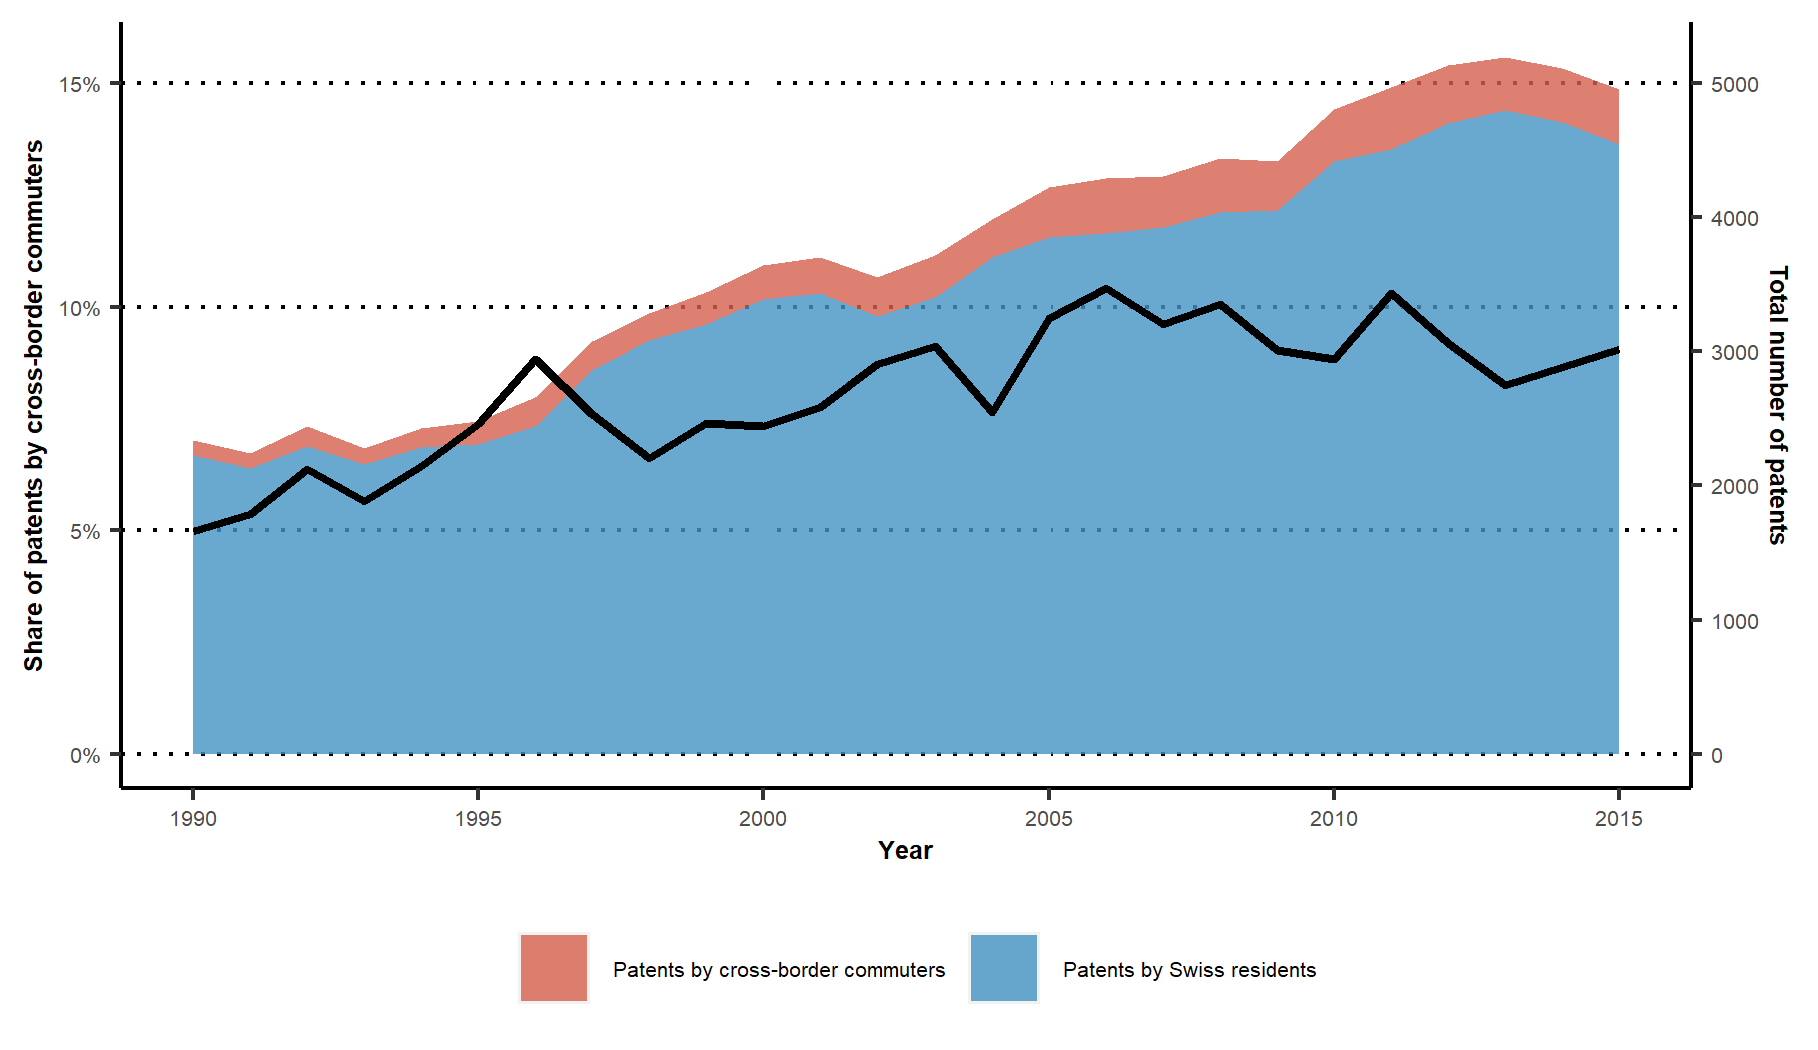
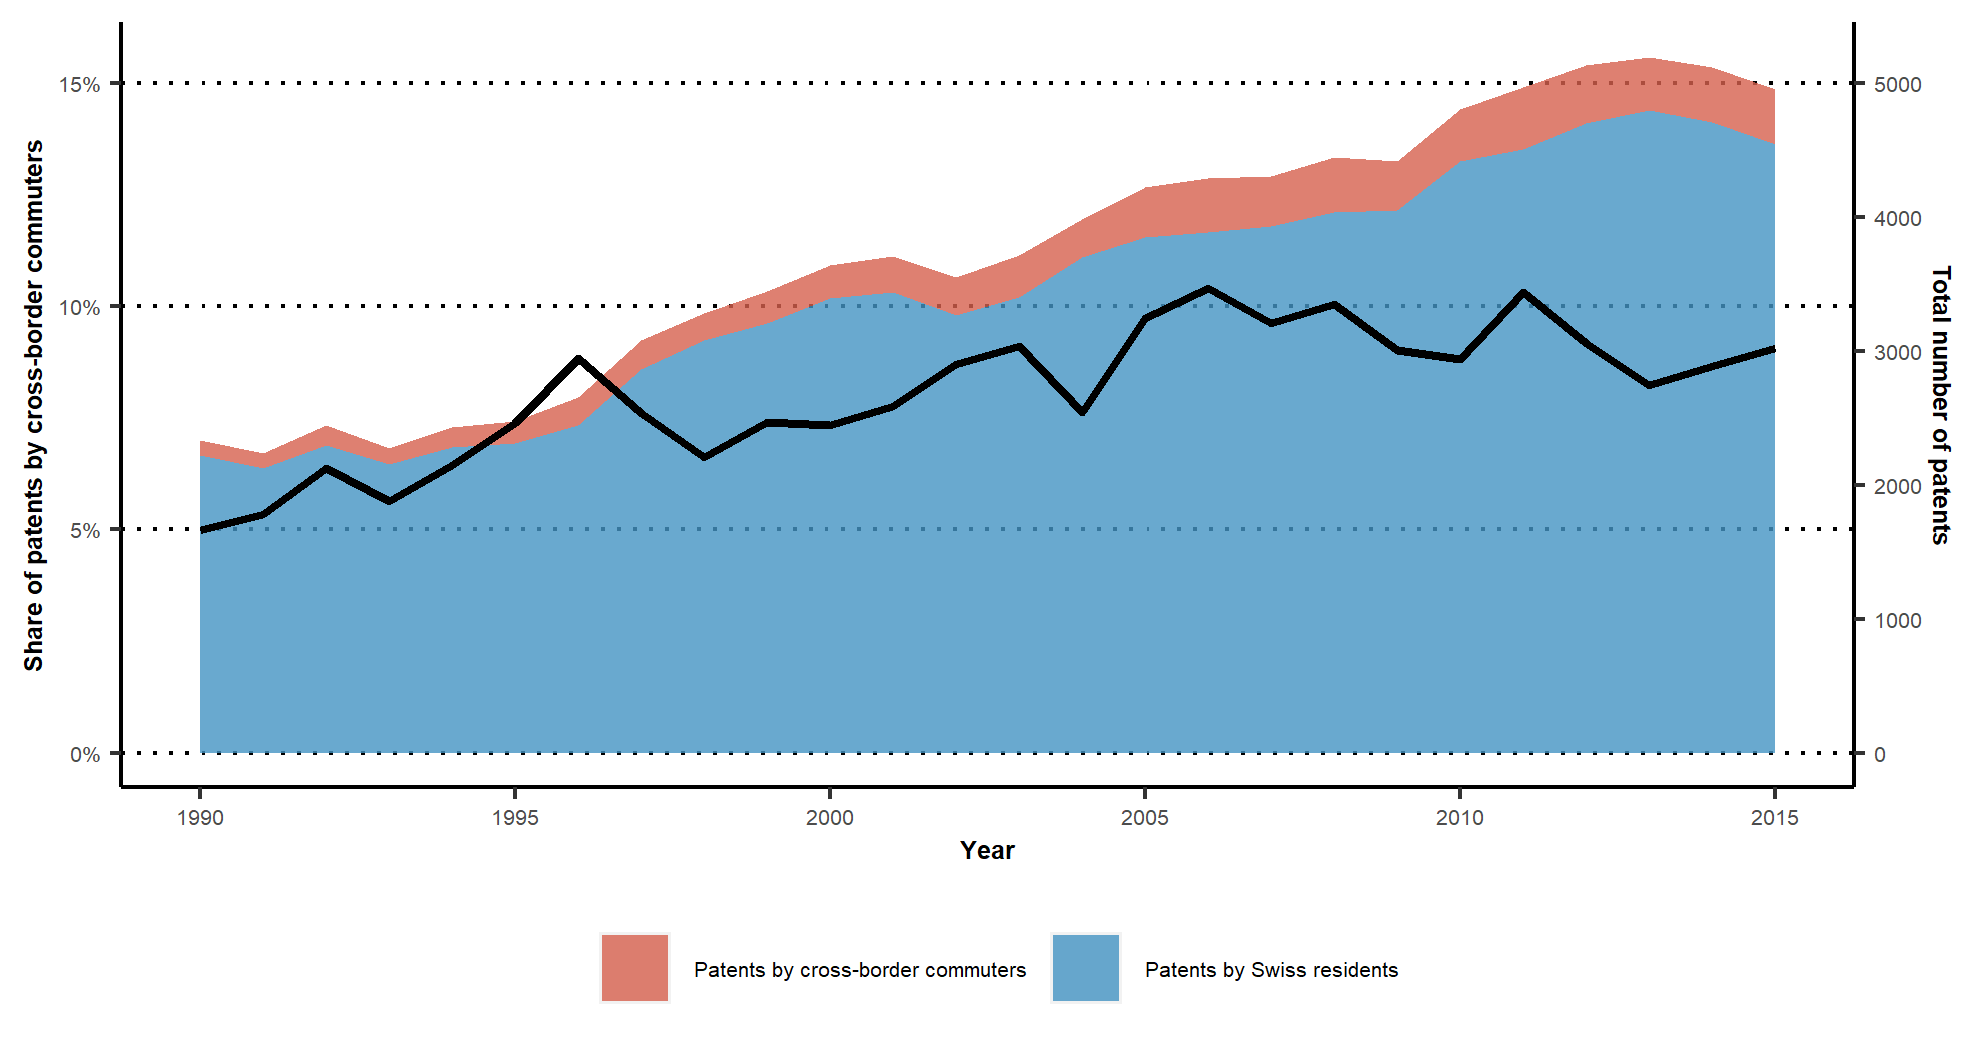
update

diff --git a/Report_de/crossborder_commuters_de.html b/Report_de/crossborder_commuters_de.html
@@ -43,15 +43,11 @@
 
 
 
-<!-- ```{r setup, include=FALSE} -->
-<!-- knitr::opts_chunk$set(echo = TRUE) -->
-<!-- ``` -->
 <p><link href="https://stackpath.bootstrapcdn.com/bootstrap/3.3.5/css/bootstrap.min.css" type="text/css" rel="stylesheet"> <link rel="stylesheet" href="style.css" type="text/css" /></p>
 <div class="container-fluid main-container">
 
-<!-- <a href="http://cieb.unibas.ch/" target = "_blank">![Foo](cieb.png){ width=30% }</a> -->
-<div id="bedeutung-von-grenzgängern-für-innovationen-made-in-switzerland" class="section level2">
-<h2><strong>Bedeutung von Grenzgängern für Innovationen “Made in Switzerland”</strong></h2>
+<div id="grenzgänger-und-innovationen-made-in-switzerland" class="section level2">
+<h2><strong>Grenzgänger und Innovationen “Made in Switzerland”</strong></h2>
 <p><br></p>
 <p><em>September 2020</em> verfasst von <a href="https://wwz.unibas.ch/de/personen/matthias-niggli/" target = "_blank">Matthias Niggli</a>, <a href="https://wwz.unibas.ch/de/personen/christian-rutzer/" target = "_blank">Christian Rutzer</a> und <a href="https://wwz.unibas.ch/de/personen/dragan-filimonovic/" target = "_blank">Dragan Filimonovic</a></p>
 <p><br></p>
@@ -90,7 +86,7 @@
 <p><br></p>
 <div id="pat_method" class="box_div">
 <p style="font-size:18px">
-<strong>Suche nach grenzüberschreitenden pendelnden Erfindern in der Schweiz </strong>
+<strong>Bestimmung von Schweizer Grenzgängern in den Patentdaten</strong>
 </p>
 <details>
 <p><summary><em>Klicken Sie hier, um unser methodisches Vorgehen nachzulesen</em></summary></p>
@@ -130,7 +126,7 @@
 <hr class="hr_red">
 <div id="herkunftsländer-der-grenzgänger" class="section level5">
 <h5><strong><em>Herkunftsländer der Grenzgänger</em></strong></h5>
-<p><img src="graph_crossborder_commuter_regio_en.png" style="width:100.0%" /></p>
+<p><img src="graph_crossborder_commuter_regio_de.png" style="width:100.0%" /></p>
 <!-- # ```{r, echo = FALSE, fig.asp = 0.5} -->
 <!-- # #### ORIGIN OF CROSS-BORDER COMMUTERS: ------------------------------------------------------------ -->
 <!-- # renderPlot({ -->
@@ -159,7 +155,7 @@
 </div>
 <div id="patentanmeldungen-von-schweizer-grenzgänger" class="section level5">
 <h5><strong><em>Patentanmeldungen von Schweizer Grenzgänger</em></strong></h5>
-<p><img src="graph_crossborder_commuter_en.png" style="width:100.0%" /></p>
+<p><img src="graph_crossborder_commuter_de.png" style="width:100.0%" /></p>
 <!-- # ```{r, echo = FALSE, warning = FALSE, fig.asp = 0.5} -->
 <!-- # #### CROSS-BORDER COMMUTERS IN SWITZERLAND: ------------------------------------------- -->
 <!-- # # load and prepare the data  -->
@@ -213,7 +209,7 @@
 </div>
 <div id="schweizer-grenzgänger-nach-regionen-und-branchen" class="section level5">
 <h5><strong><em>Schweizer Grenzgänger nach Regionen und Branchen</em></strong></h5>
-<iframe width="100%" height="560" frameBorder="0" src="https://cieb.shinyapps.io/cross_border_plot/">
+<iframe width="100%" height="560" frameBorder="0" src="https://cieb.shinyapps.io/cross_border_plot_de/">
 <p>
 Your browser does not support iframes
 </p>
@@ -300,9 +296,7 @@ Your browser does not support iframes
 <p><br></p>
 <p><strong>Falls Sie an einem Vergleich</strong> der Schweizer Pharma mit anderen Ländern interessiert sind, dann könnte für Sie unsere Analyse <a href = https://innoscape.ch/en/publications/the-pharmaceutical-industry-a-driver-of-innovation-and-growth-in-switzerland target = “_blank”> Pharma Schweiz: Ein Treiber für Wachstum und Innovation</a> interessant sein.</p>
 <p><br></p>
-<strong>Diesen Artikel teilen</strong>
-<div class="a2a_kit a2a_kit_size_32 a2a_default_style" data-a2a-url="https://innoscape.ch/en/publications/cross-border-commuting-and-inventions-made-in-switzerland" data-a2a-title="Analysis within Innoscape: Cross-border commuting and inventions Made in Switzerland">
-<p><a class="a2a_button_twitter"></a> <a class="a2a_button_linkedin"></a> <a class="a2a_button_xing"></a> <a class="a2a_button_facebook"></a> <a class="a2a_button_email"></a></p>
+<strong>Diesen Artikel teilen</strong> &lt;div class=“a2a_kit a2a_kit_size_32 a2a_default_style” data-a2a-url=“<a href="https://innoscape.ch/de/publikationen/grenzgaenger_innovationen_schweiz" class="uri">https://innoscape.ch/de/publikationen/grenzgaenger_innovationen_schweiz</a>” data-a2a-title=“Analyse im Rahmen von Innoscape: Grenzgänger und Innovationen “Made in Switzerland”&gt; <a class="a2a_button_twitter"></a> <a class="a2a_button_linkedin"></a> <a class="a2a_button_xing"></a> <a class="a2a_button_facebook"></a> <a class="a2a_button_email"></a>
 </div>
 <script async src="https://static.addtoany.com/menu/page.js"></script>
 <p><br></p>
